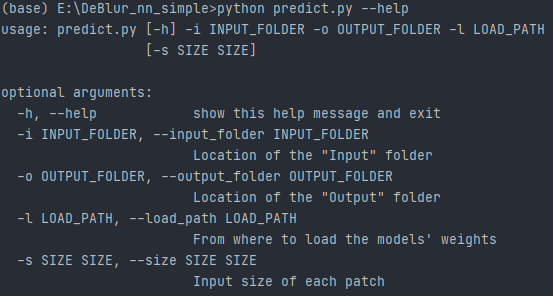
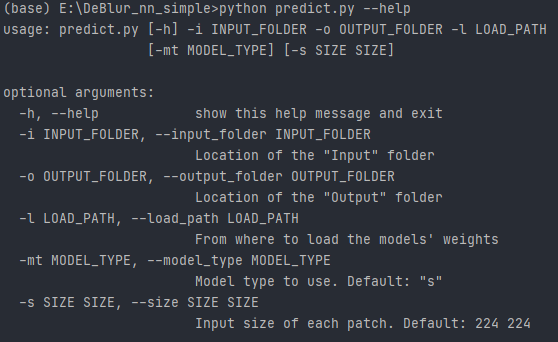
Updated README.md and help images

diff --git a/predict.py b/predict.py
@@ -14,9 +14,9 @@ if __name__ == "__main__":
     parser.add_argument("-o", "--output_folder", help="Location of the \"Output\" folder", type=str, required=True)
     parser.add_argument("-l", "--load_path", help="From where to load the models' weights", type=str, required=True)
 
-    parser.add_argument("-mt", "--model_type", help="Model type to use", type=str, required=False, default="s")
+    parser.add_argument("-mt", "--model_type", help="Model type to use. Default: \"s\"", type=str, required=False, default="s")
 
-    parser.add_argument("-s", "--size", help="Input size of each patch", nargs=2, type=int, required=False, default=(224, 224))
+    parser.add_argument("-s", "--size", help="Input size of each patch. Default: 224 224", nargs=2, type=int, required=False, default=(224, 224))
 
     args = parser.parse_args()
 

diff --git a/train.py b/train.py
@@ -19,9 +19,9 @@ if __name__ == "__main__":
     parser.add_argument("-e", "--epochs", help="Epochs to train the model for", type=int, required=True)
     parser.add_argument("-bs", "--batch_size", help="Batch size", type=int, required=True)
 
-    parser.add_argument("-mt", "--model_type", help="Model type to use", type=str, required=False, default="s")
+    parser.add_argument("-mt", "--model_type", help="Model type to use. Default: \"s\"", type=str, required=False, default="s")
 
-    parser.add_argument("-s", "--size", help="Input size of each patch", nargs=2, type=int, required=False, default=(224, 224))
+    parser.add_argument("-s", "--size", help="Input size of each patch. Default: 224 224", nargs=2, type=int, required=False, default=(224, 224))
 
     args = parser.parse_args()
 
